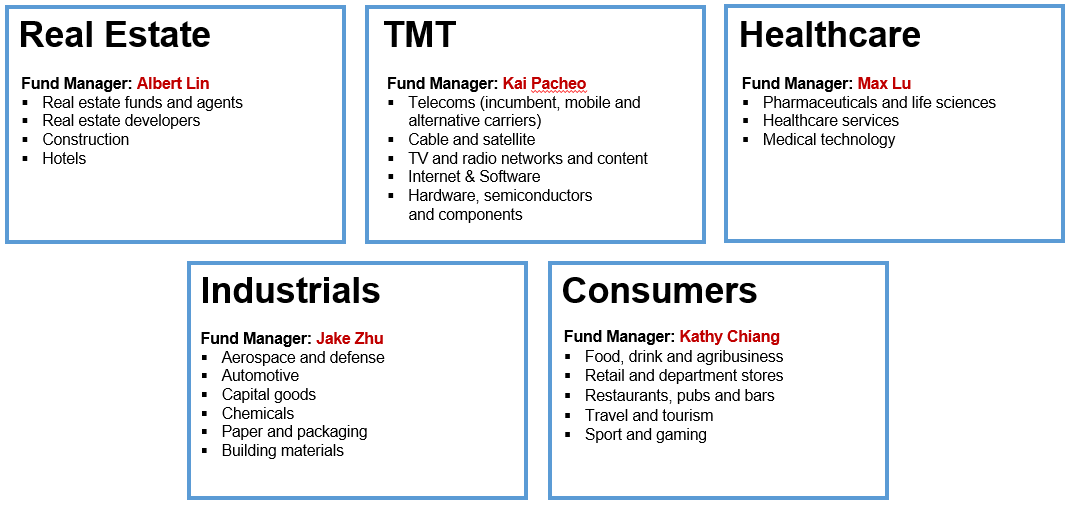
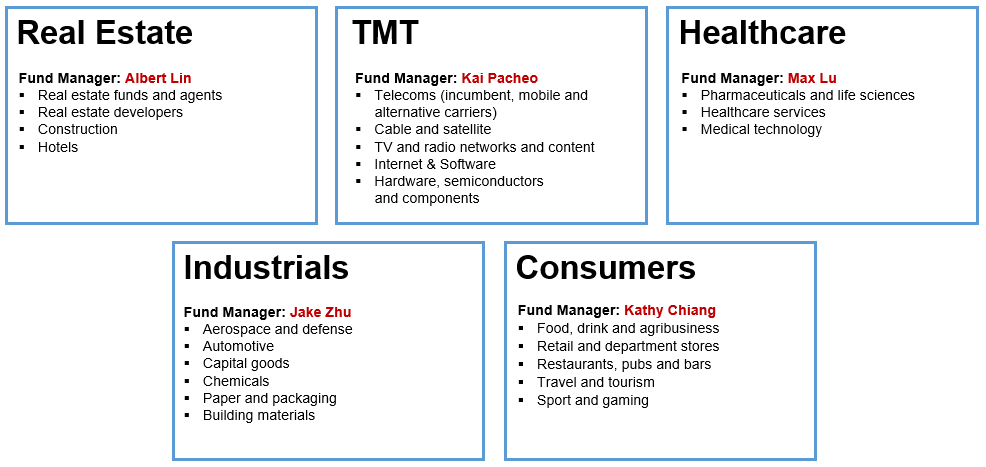
Spelling Errors and publications
Fixed fund page to get rid of spelling errors and removed publications page completely

diff --git a/about.html b/about.html
@@ -78,9 +78,6 @@
                         <a href="leadership.html">Leadership</a>
                     </li>
                     <li>
-                        <a href="publications.html">Publications</a>
-                    </li>
-                    <li>
                         <a href="recruitment.html">Recruitment</a>
                     </li>
                 </ul>

diff --git a/funds.html b/funds.html
@@ -79,9 +79,6 @@
                         <a href="leadership.html">Leadership</a>
                     </li>
                     <li>
-                        <a href="publications.html">Publications</a>
-                    </li>
-                    <li>
                         <a href="recruitment.html">Recruitment</a>
                     </li>
                 </ul>

diff --git a/index.html b/index.html
@@ -71,9 +71,6 @@
                         <a href="leadership.html">Leadership</a>
                     </li>
                     <li>
-                        <a href="publications.html">Publications</a>
-                    </li>
-                    <li>
                         <a href="recruitment.html">Recruitment</a>
                     </li>
                 </ul>

diff --git a/leadership.html b/leadership.html
@@ -82,9 +82,6 @@
                         <a href="leadership.html">Leadership</a>
                     </li>
                     <li>
-                        <a href="publications.html">Publications</a>
-                    </li>
-                    <li>
                         <a href="recruitment.html">Recruitment</a>
                     </li>
                 </ul>

diff --git a/recruitment.html b/recruitment.html
@@ -78,9 +78,6 @@
                         <a href="leadership.html">Leadership</a>
                     </li>
                     <li>
-                        <a href="publications.html">Publications</a>
-                    </li>
-                    <li>
                         <a href="recruitment.html">Recruitment</a>
                     </li>
                 </ul>
